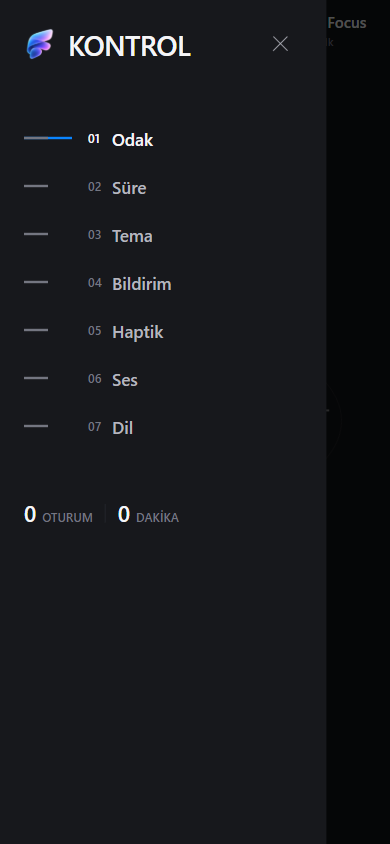
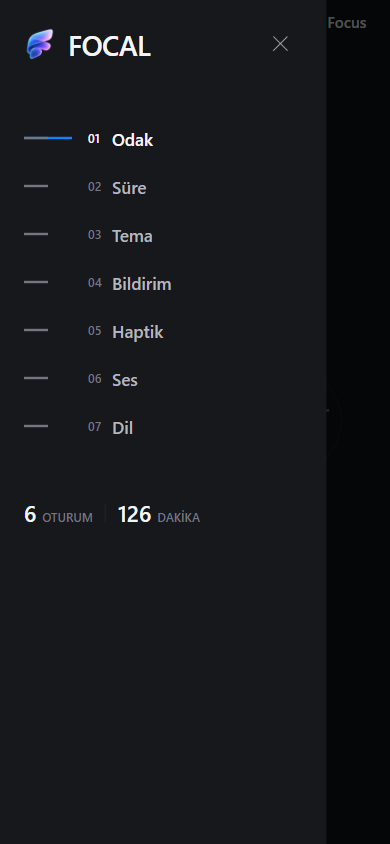
feat(i18n): update drawer menu header title to focal
- Set drawer.title to FOCAL in Turkish and English dictionaries

- Re-capture and update assets/screenshots/05_drawer_menu.png

Changed region(s): [[0.1846, 0.0308, 0.4923, 0.0924], [0.3077, 0.5853, 0.5231, 0.6161], [0.0615, 0.5853, 0.0923, 0.6161]]

diff --git a/src/i18n/translations.ts b/src/i18n/translations.ts
@@ -130,7 +130,7 @@ export const translations: Record<Language, TranslationSchema> = {
       silent: 'SESSİZ',
     },
     drawer: {
-      title: 'KONTROL',
+      title: 'FOCAL',
       menu: {
         focus: 'Odak',
         duration: 'Süre',
@@ -242,7 +242,7 @@ export const translations: Record<Language, TranslationSchema> = {
       silent: 'SILENT',
     },
     drawer: {
-      title: 'CONTROLS',
+      title: 'FOCAL',
       menu: {
         focus: 'Focus',
         duration: 'Duration',
